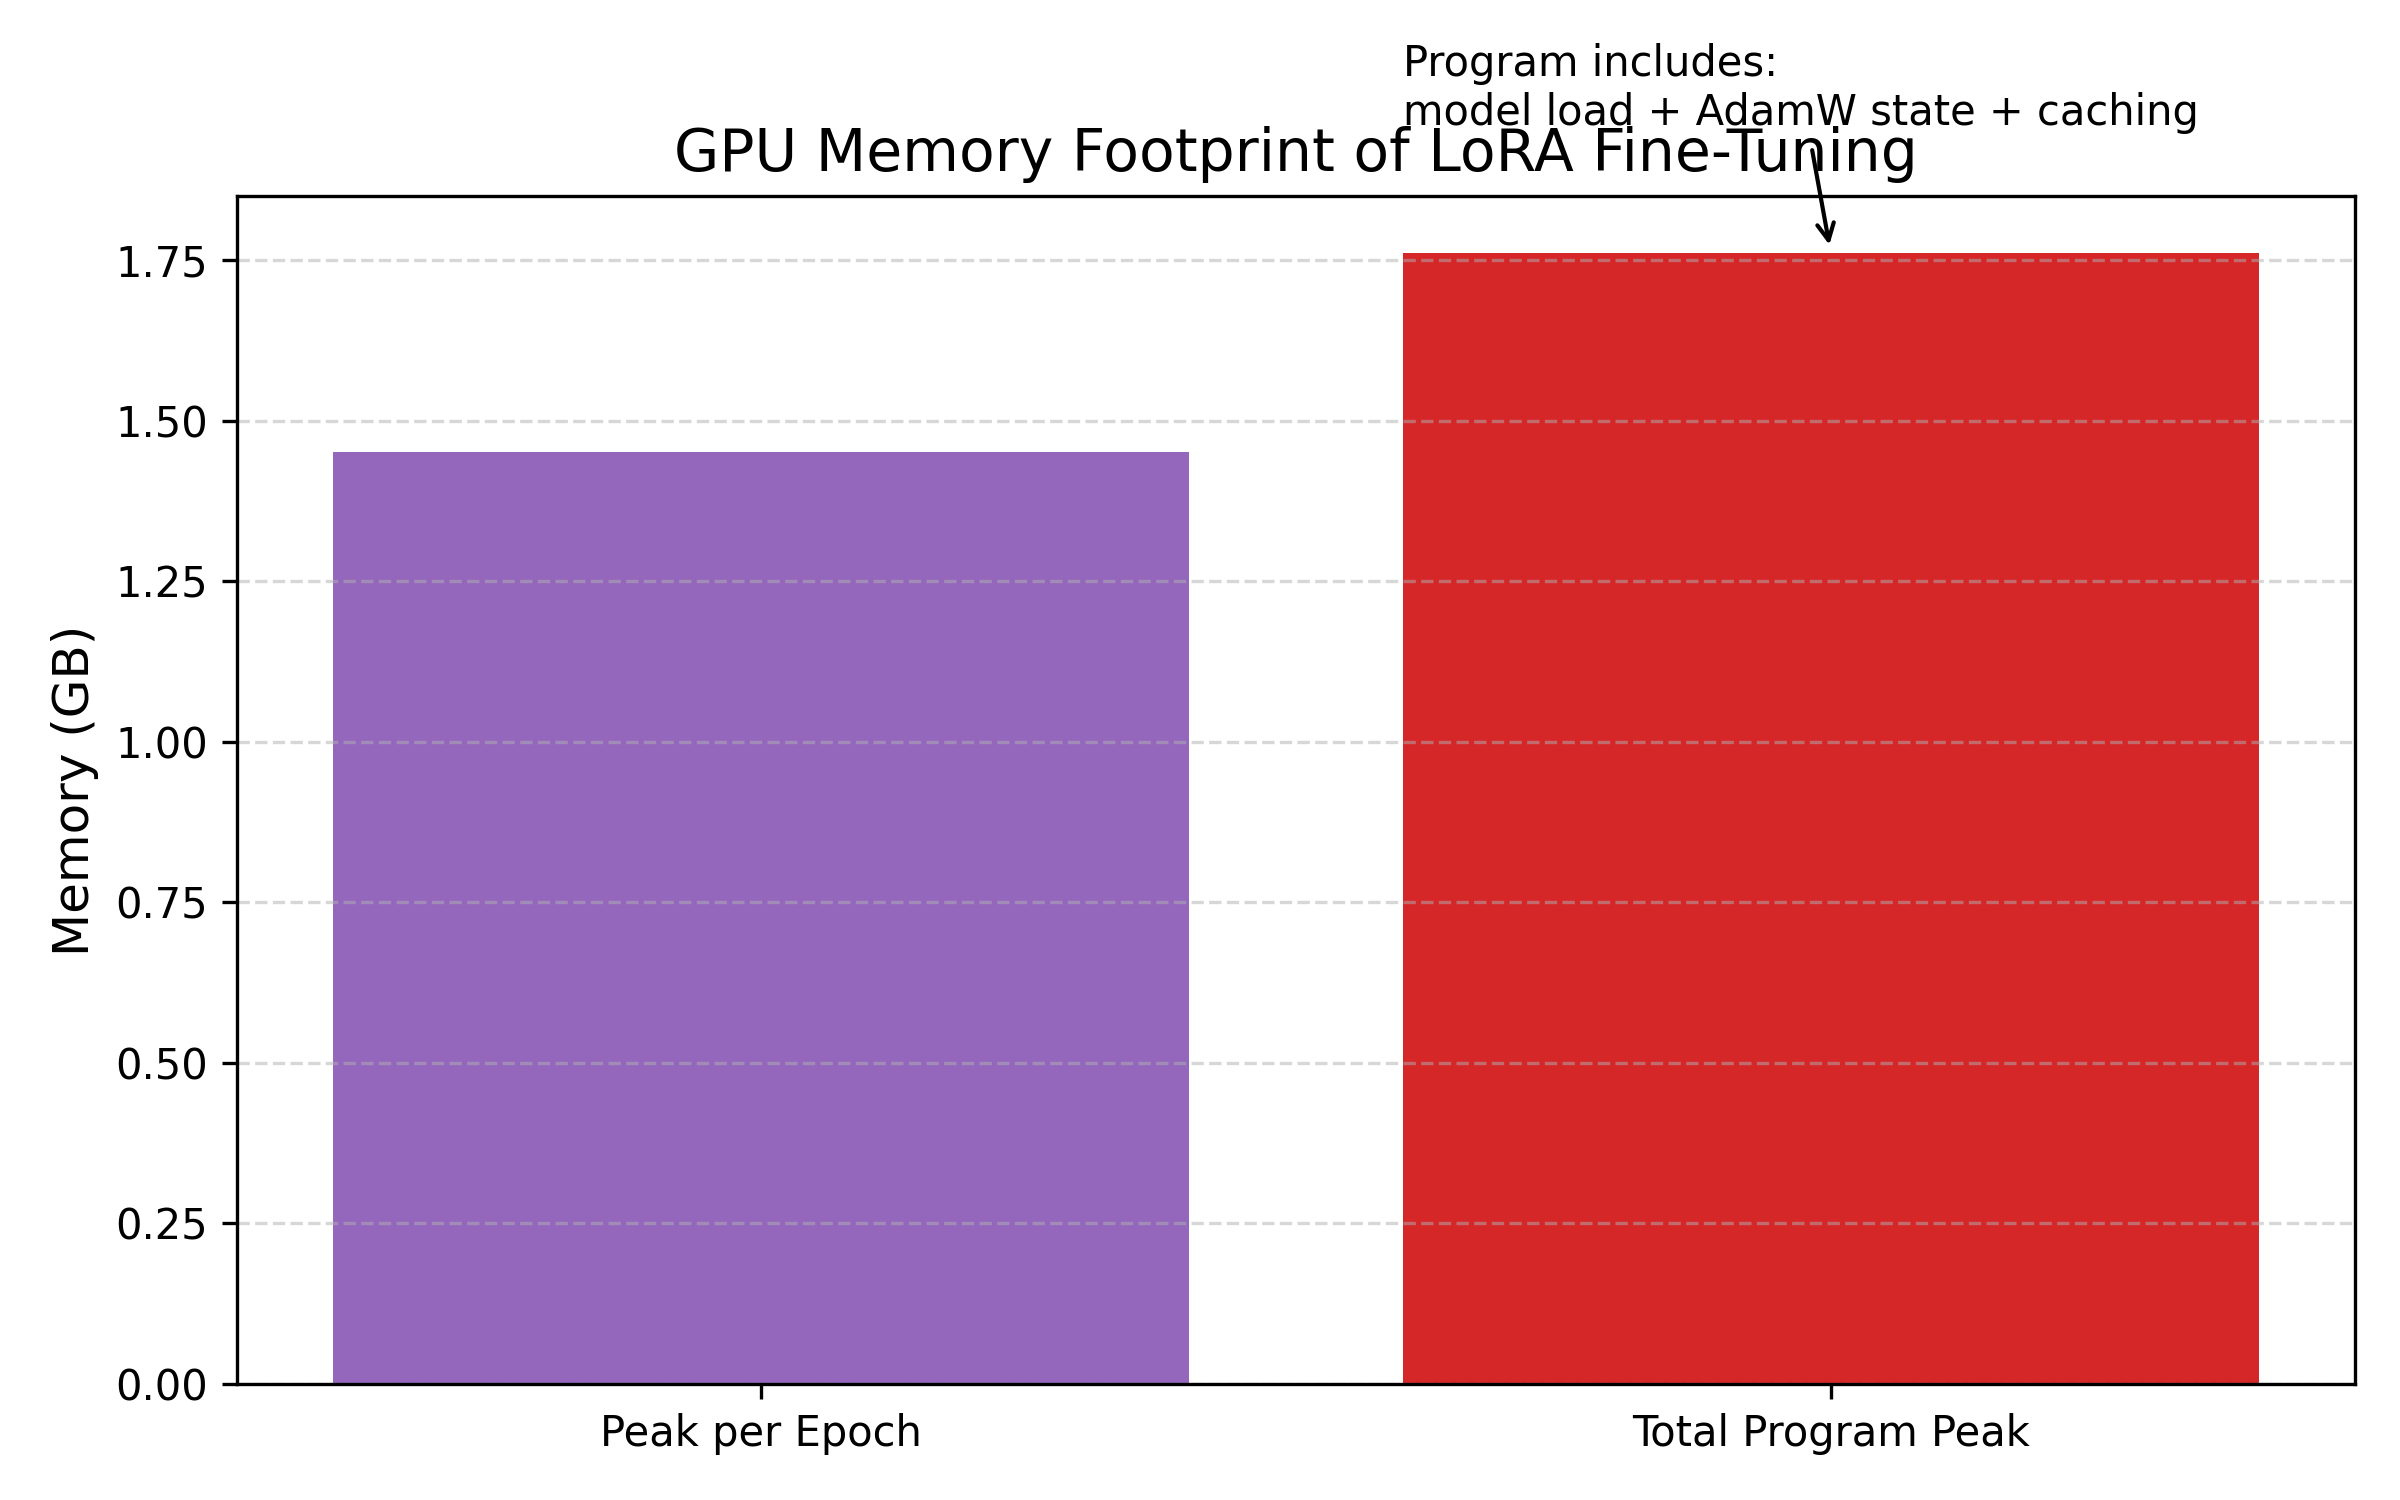
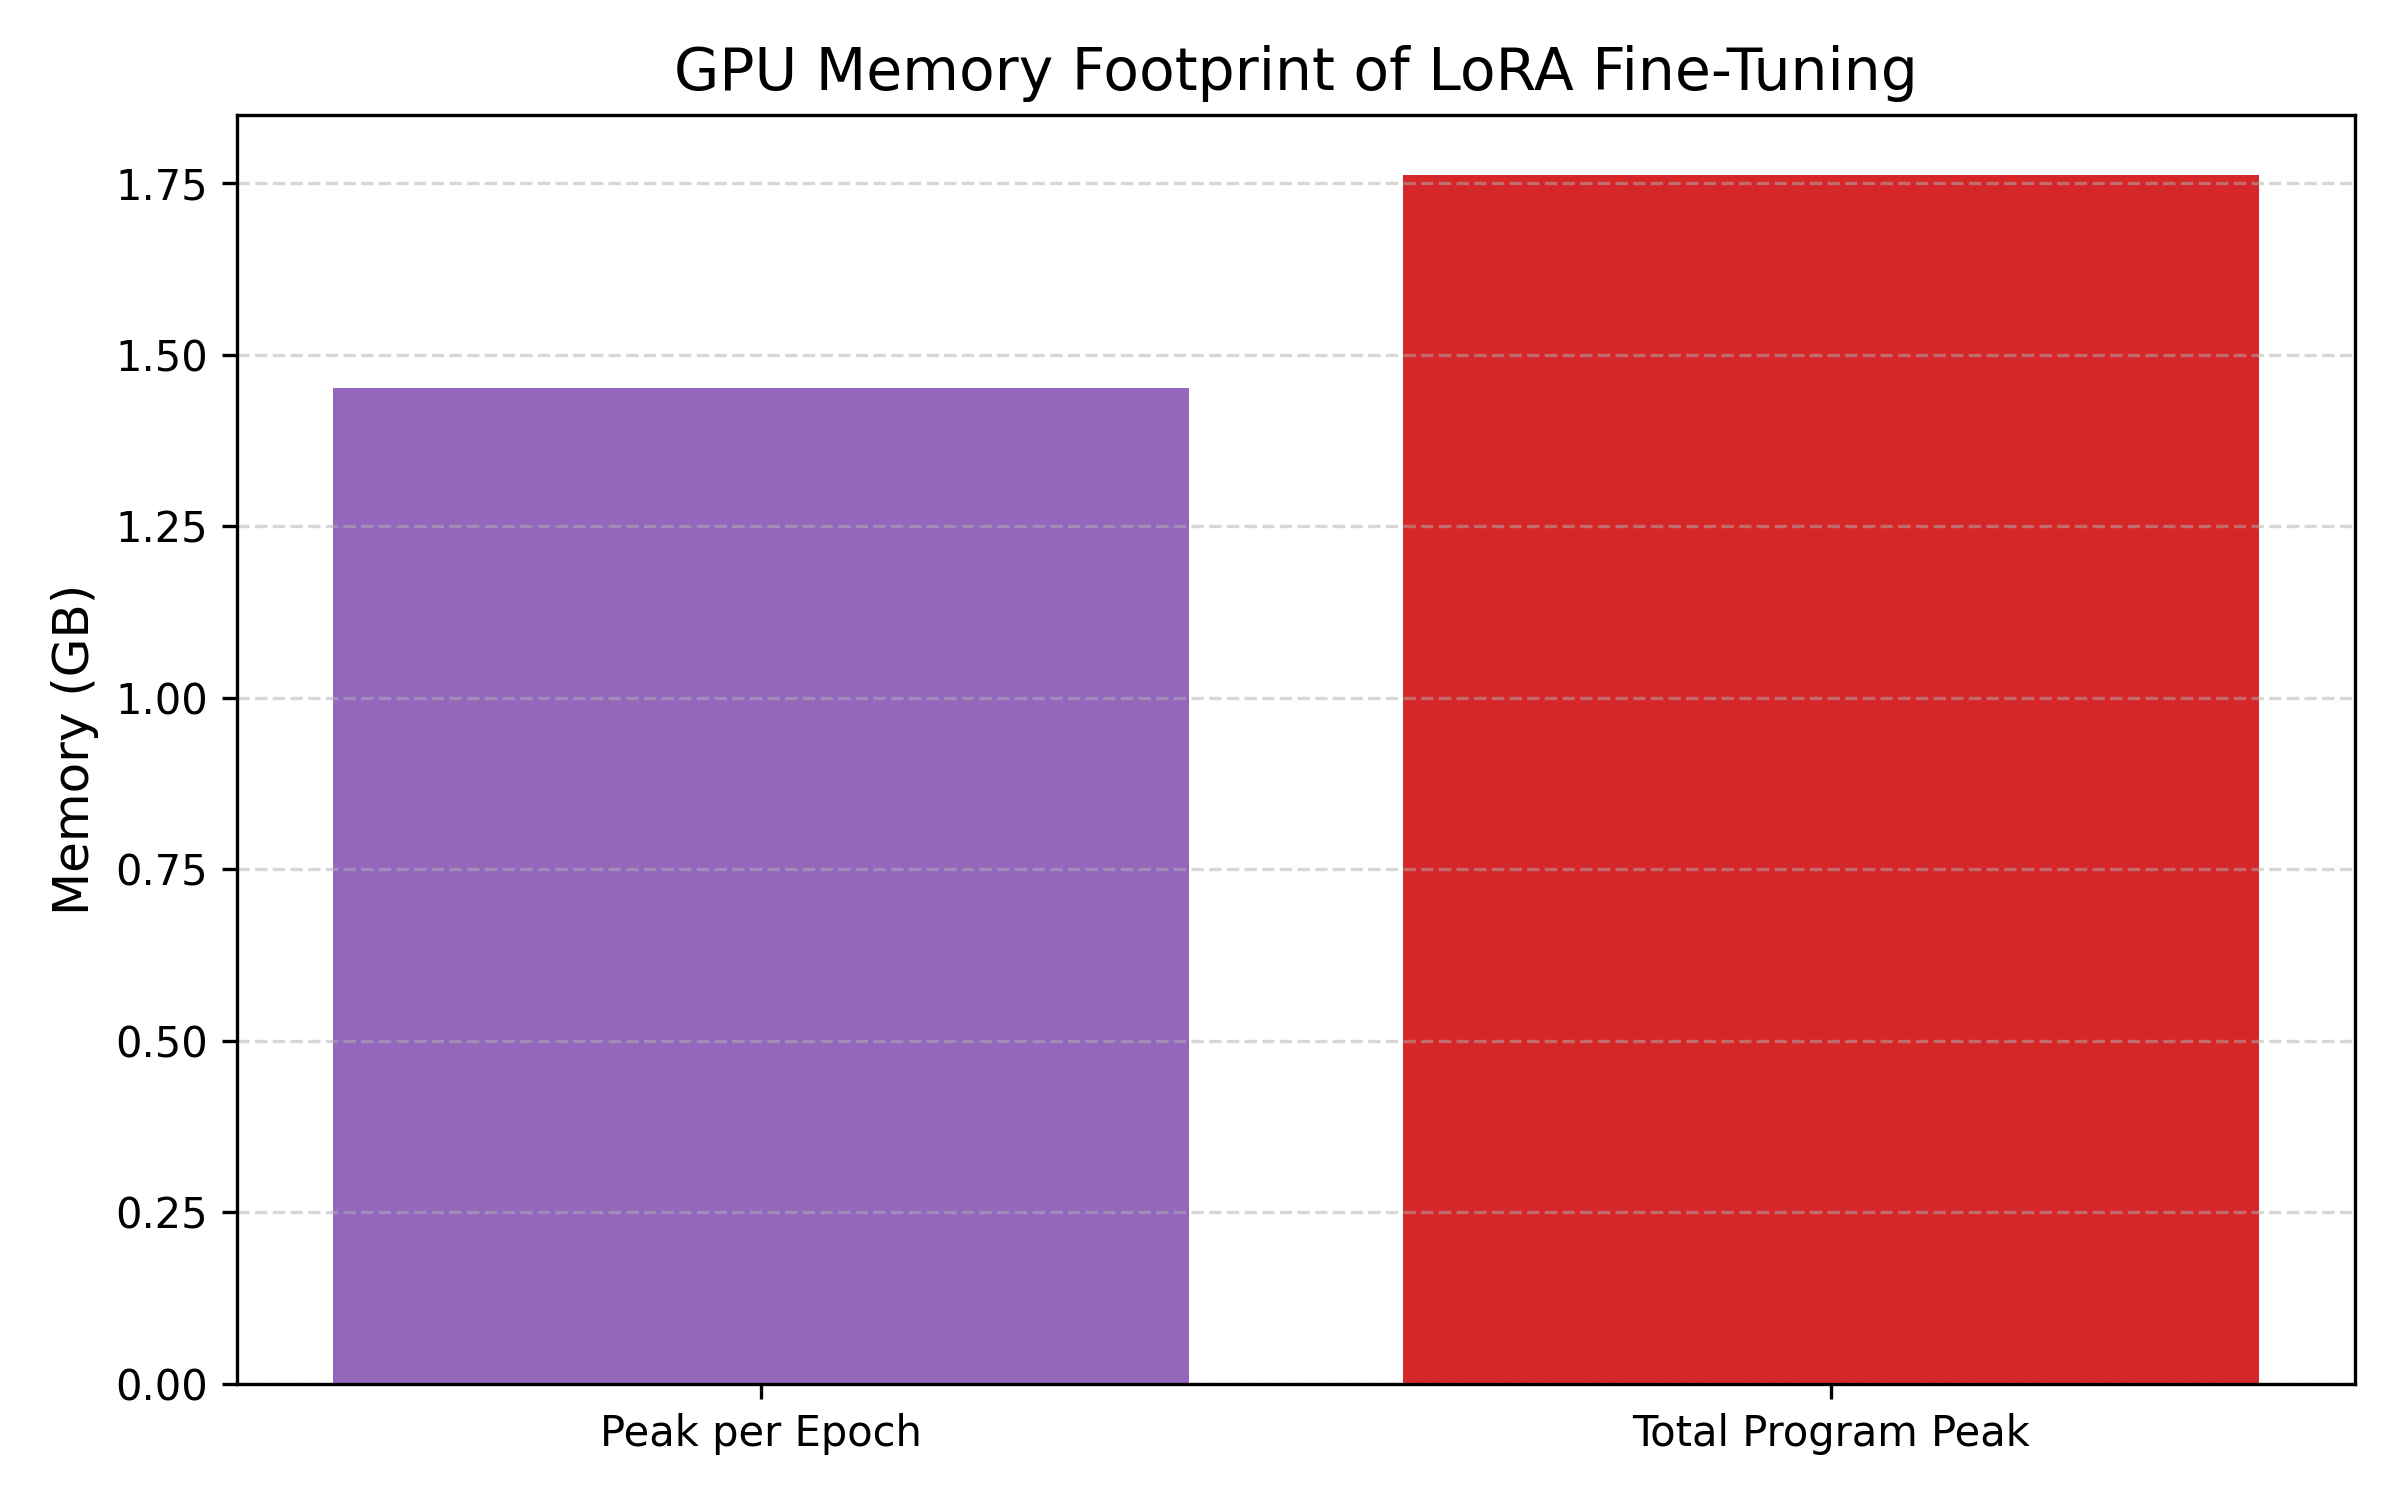
added more code

diff --git a/Lora/lora_config/lora.py b/Lora/lora_config/lora.py
@@ -19,7 +19,7 @@ from transformers import AutoTokenizer
 from peft import LoraConfig, get_peft_model
 from transformers import TrainingArguments, Trainer
 from transformers import AutoModelForSequenceClassification
-from custom_adam.optimizer.custom_adam_optimizer import CustomAdam
+
 
 
 import torch
@@ -27,10 +27,14 @@ import torch
 
 
 class MemoryPeakPerEpochCallback(TrainerCallback):
-    def __init__(self, csv_path="epoch_peak_memory.csv"):
-        self.csv_path = csv_path
+    def __init__(self, rank, base_path="./graph"):
+        self.rank = rank
+        self.base_path = base_path
+        self.path = f"{base_path}/r{rank}"
 
-        
+        os.makedirs(self.path, exist_ok=True)
+
+        self.csv_path = f"{self.path}/epoch_peak_memory.csv"
         with open(self.csv_path, "w") as f:
             f.write("epoch,peak_memory_bytes\n")
 
@@ -42,10 +46,8 @@ class MemoryPeakPerEpochCallback(TrainerCallback):
         if torch.cuda.is_available():
             peak = torch.cuda.max_memory_allocated()
 
-
             print(f"[Epoch {int(state.epoch)}] Peak CUDA Memory: {peak/1e6:.2f} MB")
 
- 
             with open(self.csv_path, "a") as f:
                 f.write(f"{int(state.epoch)},{peak}\n")
 
@@ -72,7 +74,8 @@ class lora_run():
         if torch.cuda.is_available():
             torch.cuda.reset_peak_memory_stats()
 
-        memory_peak_callback = MemoryPeakPerEpochCallback()
+        memory_peak_callback = MemoryPeakPerEpochCallback(rank=self.rank)
+
 
         self.accuracy_metric = evaluate.load("accuracy")
 
@@ -99,7 +102,7 @@ class lora_run():
 
         lora_config = LoraConfig(
             r=self.rank,                          
-            lora_alpha=16,                
+            lora_alpha=self.rank*2,                
             lora_dropout=0.1,
             bias="none",
             task_type="SEQ_CLS",
@@ -117,7 +120,7 @@ class lora_run():
             per_device_eval_batch_size=64,
             num_train_epochs=self.num_train_epochs,
             learning_rate=self.learning_rate,
-            evaluation_strategy="epoch",
+            eval_strategy="epoch",
             save_strategy="epoch",
             load_best_model_at_end=True,
             logging_steps=50,
@@ -182,7 +185,7 @@ class lora_run():
             print(f"[Profiler] FLOPs per epoch (approx): {flops_per_epoch:,}")
 
 
-            with open("flops_profiler_stats.csv", "w") as f:
+            with open("./graph/flops_profiler_stats.csv", "w") as f:
                 f.write("metric,value\n")
                 f.write(f"step_flops,{total_flops_step}\n")
                 f.write(f"epoch_flops,{flops_per_epoch}\n")
@@ -199,7 +202,7 @@ class lora_run():
         if torch.cuda.is_available():
             total_peak = torch.cuda.max_memory_reserved()
             print(f"[PROGRAM TOTAL PEAK GPU MEMORY]: {total_peak/1e6:.2f} MB")
-            with open("total_program_memory.csv", "w") as f:
+            with open("./graph/total_program_memory.csv", "w") as f:
                 f.write("metric,value_bytes\n")
                 f.write(f"program_total_peak_memory,{total_peak}\n")
 

diff --git a/Lora/graph/graph.py b/Lora/graph/graph.py
@@ -1,0 +1,86 @@
+import pandas as pd
+import matplotlib.pyplot as plt
+import os
+
+# Make sure plot directory exists
+os.makedirs("./plots", exist_ok=True)
+
+# ===============================
+# Load CSV Files
+# ===============================
+epoch_mem = pd.read_csv("./epoch_peak_memory.csv")
+flops = pd.read_csv("./flops_profiler_stats.csv")
+total_mem = pd.read_csv("./total_program_memory.csv")
+
+# ===============================
+# PLOT 1 — Peak GPU Memory per Epoch
+# ===============================
+plt.figure(figsize=(8,5))
+plt.plot(
+    epoch_mem["epoch"],
+    epoch_mem["peak_memory_bytes"] / 1e9,    # Convert to GB
+    marker="o",
+    linewidth=2,
+    color="#1f77b4"
+)
+plt.title("LoRA Fine-Tuning: Peak GPU Memory per Epoch", fontsize=14)
+plt.xlabel("Epoch", fontsize=12)
+plt.ylabel("Peak Memory (GB)", fontsize=12)
+plt.grid(True, linestyle="--", alpha=0.5)
+
+
+
+plt.tight_layout()
+plt.savefig("./plots/lora_memory_across_epochs.png", dpi=300)
+plt.close()
+
+
+# ===============================
+# PLOT 2 — FLOPs per Step vs FLOPs per Epoch
+# ===============================
+step_flops = flops.loc[flops["metric"] == "step_flops", "value"].item()
+epoch_flops = flops.loc[flops["metric"] == "epoch_flops", "value"].item()
+
+plt.figure(figsize=(8,5))
+plt.bar(
+    ["Step FLOPs (TFLOPs)", "Epoch FLOPs (PFLOPs)"],
+    [step_flops / 1e12, epoch_flops / 1e15],
+    color=["#2ca02c", "#ff7f0e"]
+)
+
+plt.title("Compute Cost of LoRA Fine-Tuning", fontsize=14)
+plt.ylabel("FLOPs", fontsize=12)
+plt.grid(axis="y", linestyle="--", alpha=0.5)
+
+
+plt.tight_layout()
+plt.savefig("./plots/lora_compute_cost.png", dpi=300)
+plt.close()
+
+
+# ===============================
+# PLOT 3 — Epoch Peak Memory vs Total Program Memory
+# ===============================
+epoch_peak_gb = epoch_mem["peak_memory_bytes"].max() / 1e9
+program_peak_gb = total_mem.loc[
+    total_mem["metric"] == "program_total_peak_memory", "value_bytes"
+].item() / 1e9
+
+plt.figure(figsize=(8,5))
+plt.bar(
+    ["Peak per Epoch", "Total Program Peak"],
+    [epoch_peak_gb, program_peak_gb],
+    color=["#9467bd", "#d62728"]
+)
+
+plt.title("GPU Memory Footprint of LoRA Fine-Tuning", fontsize=14)
+plt.ylabel("Memory (GB)", fontsize=12)
+plt.grid(axis="y", linestyle="--", alpha=0.5)
+
+
+
+plt.tight_layout()
+plt.savefig("./plots/lora_memory_breakdown.png", dpi=300)
+plt.close()
+
+print("🔥 All LoRA baseline plots saved to: ./plots/")

diff --git a/Lora/lora_call.py b/Lora/lora_call.py
@@ -1,0 +1,6 @@
+from lora_config.lora import lora_run, MemoryPeakPerEpochCallback
+num_train_epochs, rank, learning_rate = 5, 4, 2e-4
+for i in range(3):
+    runner = lora_run(num_train_epochs, rank, learning_rate)
+    runner.run()
+    rank = rank * 2
